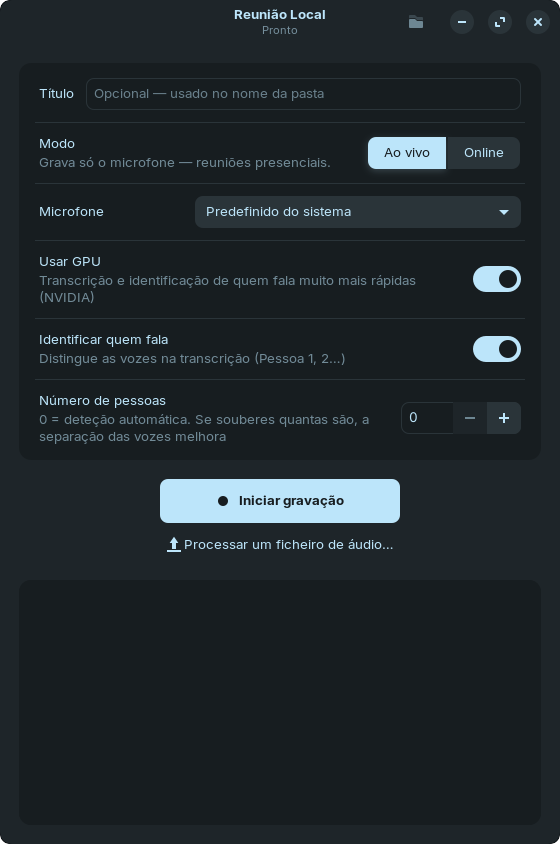
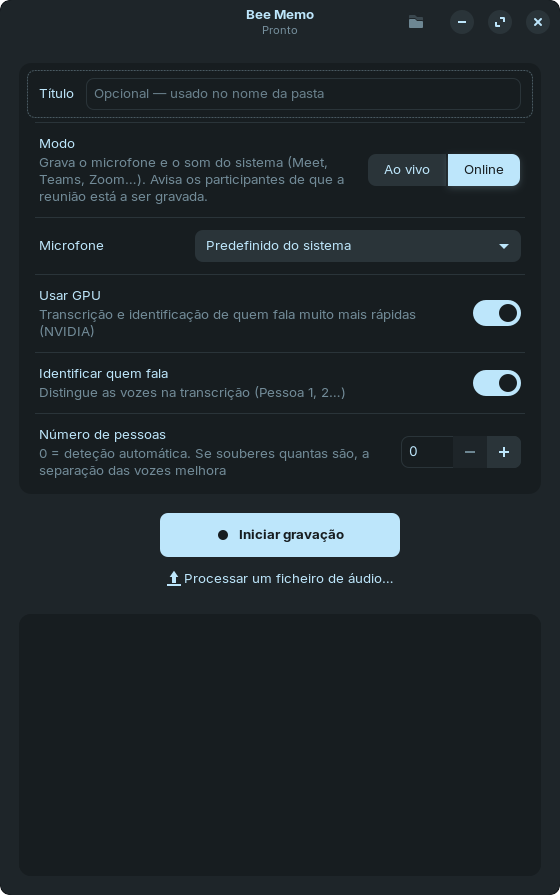
A app passa a chamar-se Bee Memo
Nome novo na janela, nas notificações, no atalho do menu, no sink virtual
do modo online, no README e nos prints. O comando `reuniao` e as pastas
internas ficam iguais, para não partir as instalações existentes.

diff --git a/interface.py b/interface.py
@@ -1,6 +1,6 @@
 #!/usr/bin/python3
 """
-Interface gráfica da Reunião Local, em GTK 3 — o toolkit do ambiente de trabalho
+Interface gráfica do Bee Memo, em GTK 3 — o toolkit do ambiente de trabalho
 (Zorin OS / GNOME), por isso segue o tema, a fonte, os ícones e o modo escuro do sistema.
 
 Não reimplementa o pipeline: constrói a linha de comandos e lança o reuniao.py
@@ -29,6 +29,7 @@ PASTA = Path(__file__).resolve().parent
 COMANDO = [str(PASTA / "reuniao")] if (PASTA / "reuniao").is_file() \
     else [str(PASTA / ".venv/bin/python"), str(PASTA / "reuniao.py")]
 PREFERENCIAS = Path.home() / ".config" / "reuniao" / "interface.json"
+NOME = "Bee Memo"
 ICONE = "audio-input-microphone"
 DESCRICAO_MODO = {
     "vivo": "Grava só o microfone — reuniões presenciais.",
@@ -75,7 +76,7 @@ def linha_de_preferencias(titulo: str, subtitulo: str, controlo: Gtk.Widget,
 
 class Janela(Gtk.ApplicationWindow):
     def __init__(self, app: Gtk.Application):
-        super().__init__(application=app, title="Reunião Local", icon_name=ICONE)
+        super().__init__(application=app, title=NOME, icon_name=ICONE)
         self.set_default_size(560, 640)
         self.proc: subprocess.Popen | None = None
         self.pasta: str | None = None
@@ -91,7 +92,7 @@ class Janela(Gtk.ApplicationWindow):
 
     # ------------------------------------------------------------------ layout
     def montar(self, prefs: dict):
-        barra = Gtk.HeaderBar(title="Reunião Local", show_close_button=True)
+        barra = Gtk.HeaderBar(title=NOME, show_close_button=True)
         barra.set_subtitle("Pronto")
         self.barra = barra
         self.botao_pasta = Gtk.Button.new_from_icon_name("folder-open-symbolic",
@@ -571,7 +572,7 @@ class Janela(Gtk.ApplicationWindow):
     def notificar(self, titulo: str, corpo: str):
         """Notificação do sistema — útil quando a janela está escondida atrás do browser."""
         if not self.is_active() and shutil.which("notify-send"):
-            subprocess.Popen(["notify-send", "-a", "Reunião Local", "-i", ICONE, titulo, corpo])
+            subprocess.Popen(["notify-send", "-a", NOME, "-i", ICONE, titulo, corpo])
 
     def mensagem(self, tipo: Gtk.MessageType, titulo: str, texto: str,
                  botoes: Gtk.ButtonsType = Gtk.ButtonsType.CLOSE) -> Gtk.ResponseType:
@@ -632,7 +633,7 @@ class Janela(Gtk.ApplicationWindow):
 def main():
     GLib.set_prgname("reuniao")                   # liga a janela ao reuniao.desktop
     Gdk.set_program_class("reuniao")              # (StartupWMClass) para a dock agrupar o ícone
-    GLib.set_application_name("Reunião Local")
+    GLib.set_application_name(NOME)
     app = Gtk.Application(application_id="local.reuniao.Gravador")
 
     def ativar(app):

diff --git a/reuniao.py b/reuniao.py
@@ -1,6 +1,6 @@
 #!/usr/bin/env python3
 """
-Reunião Local — grava uma reunião (presencial ou online), transcreve e gera um resumo.
+Bee Memo — grava uma reunião (presencial ou online), transcreve e gera um resumo.
 100% local e gratuito: faster-whisper (transcrição) + sherpa-onnx (quem fala) + Ollama (resumo).
 
 Uso:
@@ -119,7 +119,7 @@ def capturar_sistema(microfone: str | None = None):
     modulos = []
     try:
         modulos.append(pactl("load-module", "module-null-sink", "sink_name=reuniao_mix",
-                             "sink_properties=device.description=Reuniao"))
+                             "sink_properties=device.description=BeeMemo"))
         for fonte in (f"{colunas}.monitor", microfone):
             modulos.append(pactl("load-module", "module-loopback", f"source={fonte}",
                                  "sink=reuniao_mix", "latency_msec=50"))

diff --git a/README.md b/README.md
@@ -1,6 +1,6 @@
 <div align="center">
 
-# 🎙 Reunião Local
+# 🐝 Bee Memo
 
 **A ata da sua reunião pronta minutos depois de ela acabar — sem que o áudio saia do seu computador.**
 
@@ -18,8 +18,8 @@ as **questões em aberto**.
 
 <table>
   <tr>
-    <td width="50%" align="center"><img src="docs/janela-inicio.png" alt="Janela da Reunião Local antes de gravar: título, modo ao vivo ou online, microfone, GPU e identificação de quem fala"></td>
-    <td width="50%" align="center"><img src="docs/janela-resumo.png" alt="Janela da Reunião Local com o resumo de uma reunião processada"></td>
+    <td width="50%" align="center"><img src="docs/janela-inicio.png" alt="Janela do Bee Memo antes de gravar: título, modo ao vivo ou online, microfone, GPU e identificação de quem fala"></td>
+    <td width="50%" align="center"><img src="docs/janela-resumo.png" alt="Janela do Bee Memo com o resumo de uma reunião processada"></td>
   </tr>
   <tr>
     <td align="center"><sub>Escolha o modo e carregue em <b>Iniciar gravação</b></sub></td>
@@ -27,7 +27,7 @@ as **questões em aberto**.
   </tr>
 </table>
 
-## Porquê a Reunião Local?
+## Porquê o Bee Memo?
 
 - 🔒 **Privacidade total.** Transcrição, identificação de vozes e resumo correm no seu
   computador. Nada é enviado para servidores de terceiros — ideal para reuniões com clientes,
@@ -99,7 +99,7 @@ O instalador:
 - com GPU NVIDIA, instala as bibliotecas CUDA, a versão CUDA do `sherpa-onnx` (identificação
   de quem fala na GPU) e o `nvidia-container-toolkit`, para o Ollama usar a GPU dentro do Docker;
 - arranca o Ollama no contentor `reuniao-ollama` e descarrega o modelo `qwen3.5:4b`;
-- cria o comando `reuniao` em `~/.local/bin` e o atalho **Reunião Local** no menu de aplicações.
+- cria o comando `reuniao` em `~/.local/bin` e o atalho **Bee Memo** no menu de aplicações.
 
 Na primeira transcrição, o modelo Whisper (~1,6 GB) é descarregado automaticamente, e na
 primeira identificação de oradores os modelos do sherpa-onnx (~33 MB, para
@@ -108,7 +108,7 @@ primeira identificação de oradores os modelos do sherpa-onnx (~33 MB, para
 ## Interface gráfica
 
 ```bash
-reuniao            # ou "Reunião Local" no menu de aplicações
+reuniao            # ou "Bee Memo" no menu de aplicações
 ```
 
 ### Gravar uma reunião
